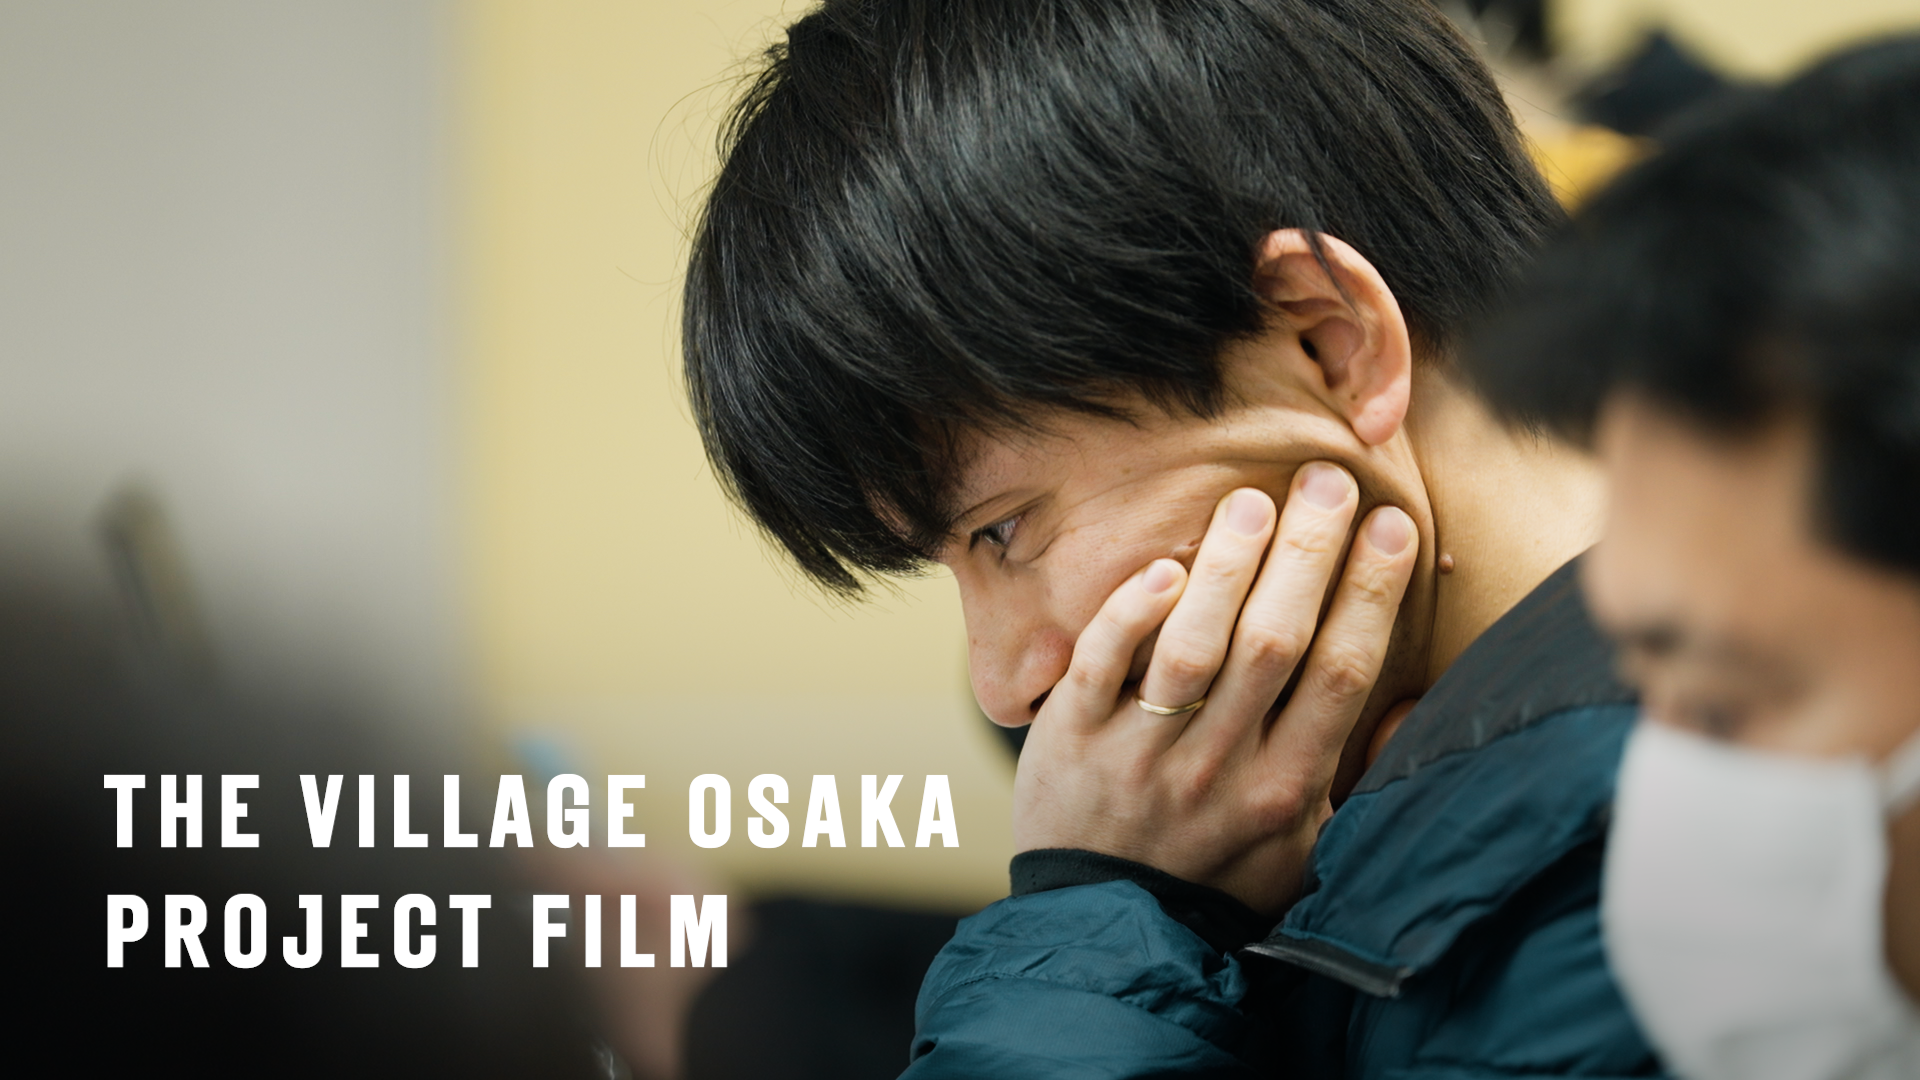
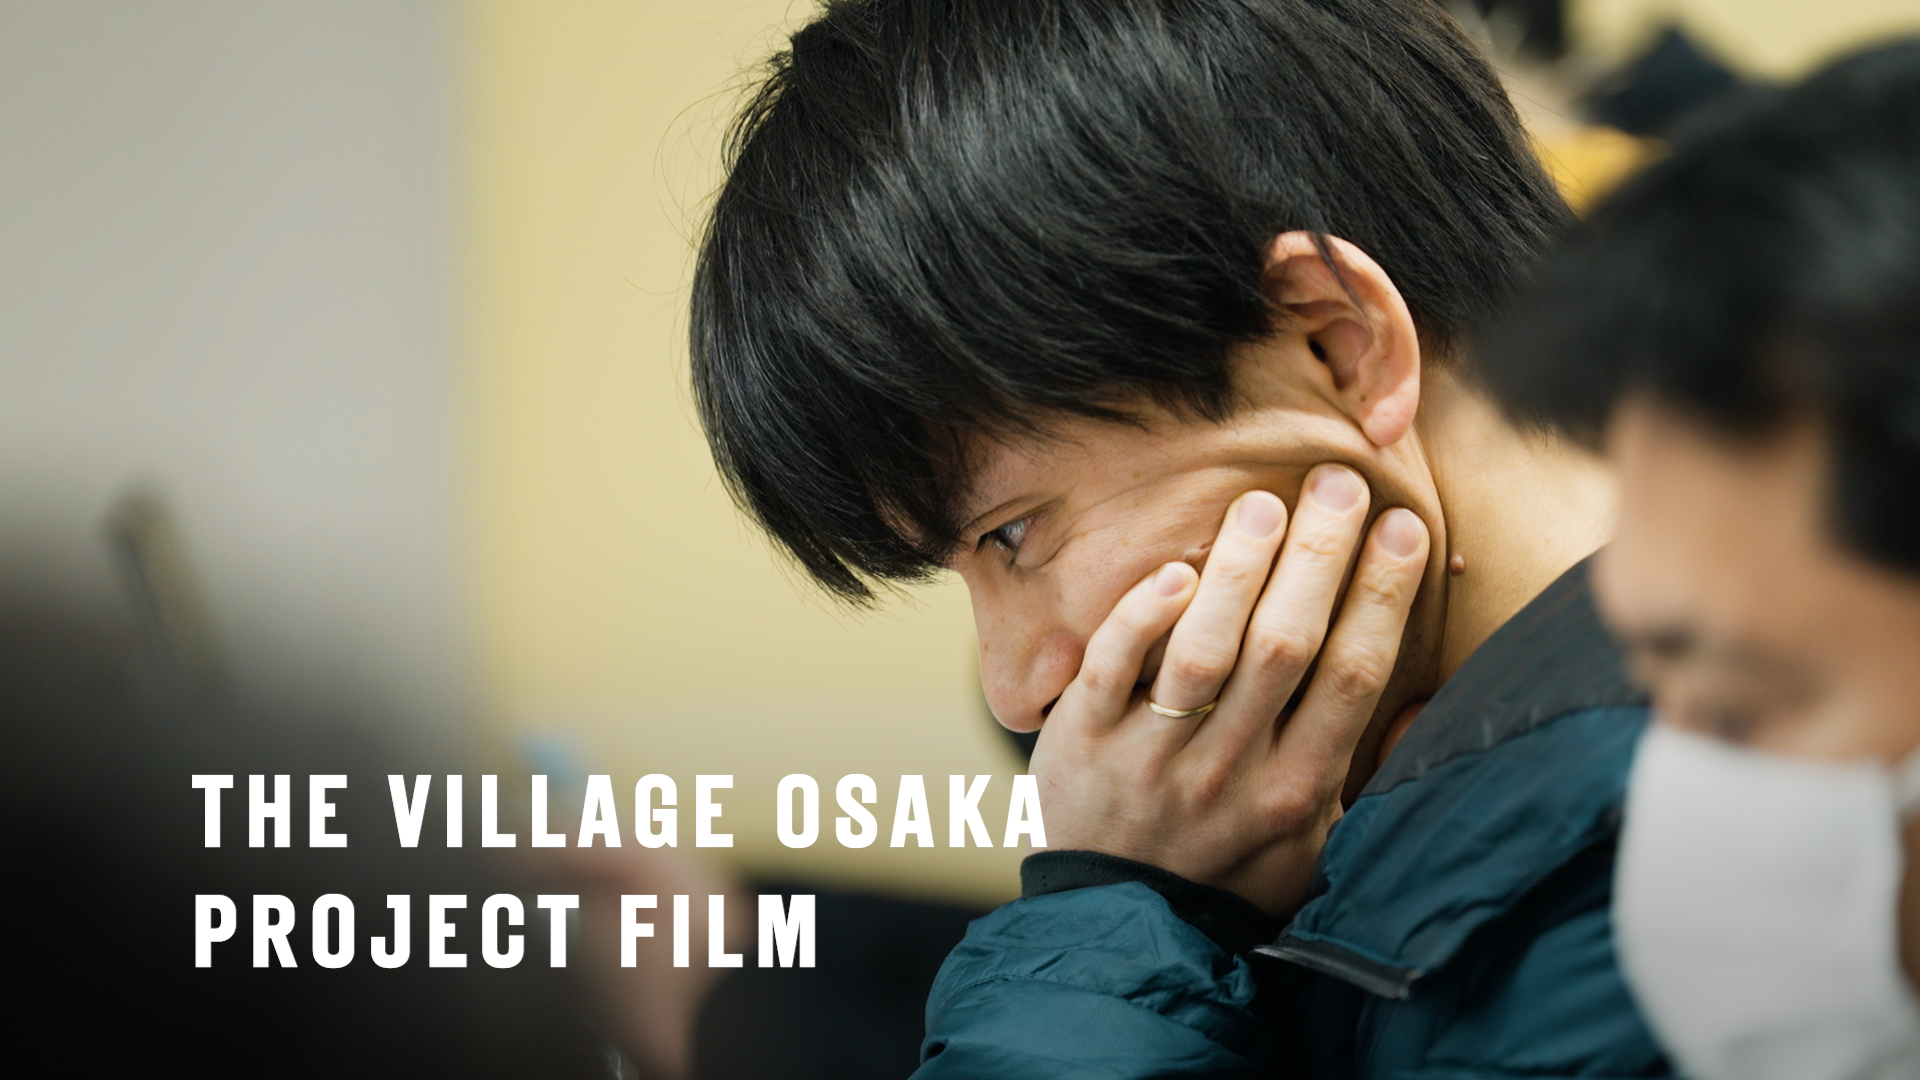
Add files via upload

diff --git a/index.html b/index.html
@@ -22,7 +22,7 @@
         <li><a href="works.html">works.</a></li>
         <li><a href="about.html">about.</a></li>
         <li><a href="director.html">director.</a></li>
-        <li><a href="https://note.com/" target="_blank" rel="noopener">note.</a></li>
+        <li><a href="https://note.com/matsunagaeizo" target="_blank" rel="noopener">note.</a></li>
         <li><a href="contact.html">contact.</a></li>
       </ul>
     </nav>
@@ -32,10 +32,10 @@
 <main>
   <section class="hero">
     <div class="wrap">
-      <p class="eyebrow">SEN — DOCUMENTARY FILMMAKING</p>
-      <h1>一本の線が、<br>物語になる。</h1>
-      <p class="hero-sub">人が情熱を注ぐコトの裏には、まだ言葉になっていない想いがある。私たちはその想いを掬い上げ、一本の線でつなぎ、一つのドラマとして描くドキュメンタリー映像制作チームです。</p>
-      <p class="hero-sub en">Behind everything a person pours their passion into, there are feelings that haven't yet found words. We are a documentary filmmaking team that draws out those feelings, threads them into a single line, and shapes them into a story.</p>
+      <p class="eyebrow">Sen— DOCUMENTARY FILMMAKING</p>
+      <h1>1000年残す、<br>線で繋ぐ。</h1>
+      <p class="hero-sub">消費されていくモノが多くなった時代。そんな時代でも変わらず、価値を持ち続けるモノ・コトがあります。Senはそんな人々の想いを掬い上げ、一本の線でつなぎ、ドラマとして描くドキュメンタリー映像制作チームです。</p>
+      <p class="hero-sub en">We live in an age where more and more things are simply consumed and forgotten. And yet, some things and some endeavors keep their value no matter the era. Sen gathers up the feelings behind those things, threads them into a single line, and shapes them into a story — as a documentary filmmaking team.</p>
       <div class="hero-line-wrap">
         <svg width="100%" height="2" viewBox="0 0 1000 2" preserveAspectRatio="none">
           <path class="hero-line" d="M0,1 L1000,1"/>
@@ -48,11 +48,8 @@
     <div class="wrap">
       <div class="section-head">
         <p class="eyebrow">WORKS</p>
-        <h2>想いを、映像で。</h2>
-        <p class="lead en" style="margin-top:14px;">Telling the feelings behind the work, on film.</p>
       </div>
       <div class="works-grid">
-        <!-- 代表作を3〜4点抜粋。全作品は works.html に掲載 -->
         <article class="work-card">
           <div class="work-media has-image" data-vimeo="1186139559" data-vimeo-hash="c93795f9c0" style="background-image:url('images/w01.png');">
             <div class="ph"><div class="play"></div><span class="label">WORK 01</span></div>
@@ -68,7 +65,43 @@
           </div>
           <div class="work-info">
             <p class="cat">SHIBUYA CITY FC</p>
-            <h3>THE DAY -今日、引退する-</h3>
+            <h3>THE DAY -今日、引退する-（渡邉千真引退ドキュメンタリー）</h3>
+          </div>
+        </article>
+        <article class="work-card">
+          <div class="work-media has-image" data-yt="ttni7iS-eRU" style="background-image:url('images/w03.png');">
+            <div class="ph"><div class="play"></div><span class="label">WORK 03</span></div>
+          </div>
+          <div class="work-info">
+            <p class="cat">いちご地所株式会社</p>
+            <h3>THE VILLAGE OSAKA 心築プロジェクト</h3>
+          </div>
+        </article>
+        <article class="work-card">
+          <div class="work-media has-image" data-vimeo="1090011535" style="background-image:url('images/w04.jpg');">
+            <div class="ph"><div class="play"></div><span class="label">WORK 04</span></div>
+          </div>
+          <div class="work-info">
+            <p class="cat">株式会社IHI</p>
+            <h3>IHI CurioUs Questions</h3>
+          </div>
+        </article>
+        <article class="work-card">
+          <div class="work-media has-image" data-vimeo="1193513080" data-vimeo-hash="bab504cf46" style="background-image:url('images/w05.png');">
+            <div class="ph"><div class="play"></div><span class="label">WORK 05</span></div>
+          </div>
+          <div class="work-info">
+            <p class="cat">Regrit partners</p>
+            <h3>Dual Grit FC Promotion Movie</h3>
+          </div>
+        </article>
+        <article class="work-card">
+          <div class="work-media has-image" data-vimeo="1075920066" data-vimeo-hash="613b62a4fa" style="background-image:url('images/w06.jpg');">
+            <div class="ph"><div class="play"></div><span class="label">WORK 06</span></div>
+          </div>
+          <div class="work-info">
+            <p class="cat">Documentary</p>
+            <h3>香織さんについての100の質問</h3>
           </div>
         </article>
         <article class="work-card">
@@ -78,6 +111,24 @@
           <div class="work-info">
             <p class="cat">三井住友海上あいおい損保</p>
             <h3>きみの味方になる、5日間。</h3>
+          </div>
+        </article>
+        <article class="work-card">
+          <div class="work-media has-image" data-vimeo="863835973" style="background-image:url('images/w08.webp');">
+            <div class="ph"><div class="play"></div><span class="label">WORK 08</span></div>
+          </div>
+          <div class="work-info">
+            <p class="cat">カンロ株式会社</p>
+            <h3>ボイスケアコンクール ドキュメンタリー</h3>
+          </div>
+        </article>
+        <article class="work-card">
+          <div class="work-media has-image" data-vimeo="849667307" style="background-image:url('images/w09.png');">
+            <div class="ph"><div class="play"></div><span class="label">WORK 09</span></div>
+          </div>
+          <div class="work-info">
+            <p class="cat">カンロ株式会社</p>
+            <h3>ピュレグミ Another Story Film「トキメキって恋だけじゃない」</h3>
           </div>
         </article>
       </div>
@@ -91,12 +142,12 @@
     <div class="wrap">
       <div class="section-head">
         <p class="eyebrow">ABOUT</p>
-        <h2>結果ではなく、<br>その手前にある物語を。</h2>
-        <p class="lead en" style="margin-top:14px;">Not just the result, but the story that leads to it.</p>
+        <h2>表層ではなく、<br>深層にある物語を届ける。</h2>
+        <p class="lead en" style="margin-top:14px;">Not the surface, but the story beneath it.</p>
       </div>
       <div class="concept-block">
-        <p class="jp">コンテンツが溢れる時代、完成した作品や成果そのものだけでなく、それがどんな想いから生まれたのかという「文脈」に、人は心を動かされるようになっています。私たちSenは、プロジェクトや人の挑戦の裏側にある葛藤や情熱を丁寧に取材し、一本の線としてつなぎ直すことで、見る人の心に届くドキュメンタリー映像をつくっています。</p>
-        <p class="en">In an age flooded with content, people are moved not only by the finished work or result, but by the context behind it — the feelings it grew from. At Sen, we carefully uncover the struggles and passion behind a project or a person's challenge, and re-thread the scattered episodes into a single line: a documentary film that reaches the viewer's heart.</p>
+        <p class="jp">生成AIによるコンテンツ制作が加速する一方、どんな想いからそれが生まれたのかという「文脈」に、より人は心を動かされるようになっています。私たちSenは、人の挑戦の裏側にある葛藤や情熱を丁寧に取材し、一本の線としてつなぎ直すことで、見る人の心に届くドキュメンタリー映像をつくっています。</p>
+        <p class="en">As content creation accelerates with generative AI, people are increasingly moved by the "context" behind a work — the feelings it grew from. At Sen, we carefully uncover the struggles and passion behind a person's challenge, and re-thread it into a single line: a documentary film that reaches the viewer's heart.</p>
       </div>
       <a class="btn" href="about.html">会社概要を見る <span class="arrow"></span></a>
     </div>
@@ -116,7 +167,7 @@
         <a href="works.html">works.</a>
         <a href="about.html">about.</a>
         <a href="director.html">director.</a>
-        <a href="https://note.com/" target="_blank" rel="noopener">note.</a>
+        <a href="https://note.com/matsunagaeizo" target="_blank" rel="noopener">note.</a>
         <a href="contact.html">contact.</a>
       </div>
       <div class="footer-col">

diff --git a/about.html b/about.html
@@ -22,7 +22,7 @@
         <li><a href="works.html">works.</a></li>
         <li><a href="about.html" class="is-active">about.</a></li>
         <li><a href="director.html">director.</a></li>
-        <li><a href="https://note.com/" target="_blank" rel="noopener">note.</a></li>
+        <li><a href="https://note.com/matsunagaeizo" target="_blank" rel="noopener">note.</a></li>
         <li><a href="contact.html">contact.</a></li>
       </ul>
     </nav>
@@ -33,17 +33,16 @@
   <section class="section" style="padding-bottom:40px;">
     <div class="wrap">
       <p class="eyebrow">ABOUT</p>
-      <h1>結果ではなく、<br>その手前にある物語を。</h1>
-      <p class="lead en" style="margin-top:16px;">Not just the result, but the story that leads to it.</p>
+      <h1>表層ではなく、<br>深層にある物語を届ける。</h1>
+      <p class="lead en" style="margin-top:16px;">Not the surface, but the story beneath it.</p>
       <hr class="line-rule">
       <div class="concept-block" style="margin-top:36px;">
-        <p class="jp">コンテンツが溢れる時代の中で、人はもはや「完成した作品」や「成果」だけでは動かされません。それがどんな背景で、誰の、どんな想いから生まれたのか。その文脈にこそ、共感が宿ります。</p>
-        <p class="en">In an age flooded with content, people are no longer moved by the finished work or the result alone. What background did it come from, and whose feelings shaped it? That context is where empathy takes root.</p>
-        <p class="jp">私たちSenは、プロジェクトや挑戦の裏側にある葛藤・情熱・迷いを丁寧に取材し、点在するエピソードを一本の線としてつなぎ直すことで、見る人の心を動かすドキュメンタリー映像をつくっています。WebCM、スポーツ、企業の採用映像——扱う領域はさまざまですが、根底にあるのは常に「人」の物語です。</p>
-        <p class="en">At Sen, we carefully uncover the struggles, passion, and doubt behind a project or a challenge, and re-thread the scattered episodes into a single line — creating documentary films that move the viewer. WebCM, sports, corporate recruitment films: the fields we work in vary, but at the core is always a human story.</p>
+        <p class="jp">生成AIによるコンテンツ制作が加速する一方、どんな想いからそれが生まれたのかという「文脈」に、より人は心を動かされるようになっています。私たちSenは、人の挑戦の裏側にある葛藤や情熱を丁寧に取材し、一本の線としてつなぎ直すことで、見る人の心に届くドキュメンタリー映像をつくっています。</p>
+        <p class="en">As content creation accelerates with generative AI, people are increasingly moved by the "context" behind a work — the feelings it grew from. At Sen, we carefully uncover the struggles and passion behind a person's challenge, and re-thread it into a single line: a documentary film that reaches the viewer's heart.</p>
       </div>
     </div>
   </section>
+
 
   <section class="section alt">
     <div class="wrap">
@@ -78,7 +77,15 @@
         <p class="eyebrow">MEMBER</p>
         <h2>代表者</h2>
       </div>
-      <a class="btn" href="director.html">松永隆之のプロフィールを見る / Director's Profile <span class="arrow"></span></a>
+      <div class="director-layout">
+        <div>
+          <div class="director-photo" style="background-image:url('images/about-portrait.jpg');background-size:cover;background-position:center;border:none;color:transparent;"></div>
+        </div>
+        <div>
+          <p class="lead" style="margin-bottom:28px;">ドキュメンタリーを演出の軸に広告、スポーツ、採用関連の映像を主に監督・撮影・編集をしている。</p>
+          <a class="btn" href="director.html">松永隆之のプロフィールを見る / Director's Profile <span class="arrow"></span></a>
+        </div>
+      </div>
     </div>
   </section>
 </main>
@@ -96,7 +103,7 @@
         <a href="works.html">works.</a>
         <a href="about.html">about.</a>
         <a href="director.html">director.</a>
-        <a href="https://note.com/" target="_blank" rel="noopener">note.</a>
+        <a href="https://note.com/matsunagaeizo" target="_blank" rel="noopener">note.</a>
         <a href="contact.html">contact.</a>
       </div>
       <div class="footer-col">

diff --git a/director.html b/director.html
@@ -22,7 +22,7 @@
         <li><a href="works.html">works.</a></li>
         <li><a href="about.html">about.</a></li>
         <li><a href="director.html" class="is-active">director.</a></li>
-        <li><a href="https://note.com/" target="_blank" rel="noopener">note.</a></li>
+        <li><a href="https://note.com/matsunagaeizo" target="_blank" rel="noopener">note.</a></li>
         <li><a href="contact.html">contact.</a></li>
       </ul>
     </nav>
@@ -37,7 +37,7 @@
 
       <div class="director-layout">
         <div>
-          <div class="director-photo">代表者写真をここに配置してください<br>(推奨: 縦長 3:4 比率)</div>
+          <div class="director-photo" style="background-image:url('images/about-portrait.jpg');background-size:cover;background-position:center;border:none;color:transparent;"></div>
         </div>
         <div>
           <h2 style="font-size:28px;">松永 隆之</h2>
@@ -74,7 +74,7 @@
         <a href="works.html">works.</a>
         <a href="about.html">about.</a>
         <a href="director.html">director.</a>
-        <a href="https://note.com/" target="_blank" rel="noopener">note.</a>
+        <a href="https://note.com/matsunagaeizo" target="_blank" rel="noopener">note.</a>
         <a href="contact.html">contact.</a>
       </div>
       <div class="footer-col">

diff --git a/works.html b/works.html
@@ -22,7 +22,7 @@
         <li><a href="works.html" class="is-active">works.</a></li>
         <li><a href="about.html">about.</a></li>
         <li><a href="director.html">director.</a></li>
-        <li><a href="https://note.com/" target="_blank" rel="noopener">note.</a></li>
+        <li><a href="https://note.com/matsunagaeizo" target="_blank" rel="noopener">note.</a></li>
         <li><a href="contact.html">contact.</a></li>
       </ul>
     </nav>
@@ -143,7 +143,7 @@
         <a href="works.html">works.</a>
         <a href="about.html">about.</a>
         <a href="director.html">director.</a>
-        <a href="https://note.com/" target="_blank" rel="noopener">note.</a>
+        <a href="https://note.com/matsunagaeizo" target="_blank" rel="noopener">note.</a>
         <a href="contact.html">contact.</a>
       </div>
       <div class="footer-col">

diff --git a/contact.html b/contact.html
@@ -22,7 +22,7 @@
         <li><a href="works.html">works.</a></li>
         <li><a href="about.html">about.</a></li>
         <li><a href="director.html">director.</a></li>
-        <li><a href="https://note.com/" target="_blank" rel="noopener">note.</a></li>
+        <li><a href="https://note.com/matsunagaeizo" target="_blank" rel="noopener">note.</a></li>
         <li><a href="contact.html" class="is-active">contact.</a></li>
       </ul>
     </nav>
@@ -85,7 +85,7 @@
         <a href="works.html">works.</a>
         <a href="about.html">about.</a>
         <a href="director.html">director.</a>
-        <a href="https://note.com/" target="_blank" rel="noopener">note.</a>
+        <a href="https://note.com/matsunagaeizo" target="_blank" rel="noopener">note.</a>
         <a href="contact.html">contact.</a>
       </div>
       <div class="footer-col">
